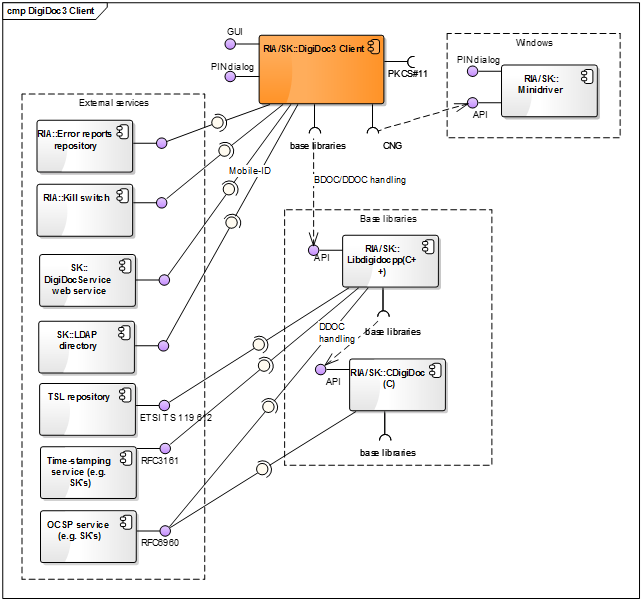
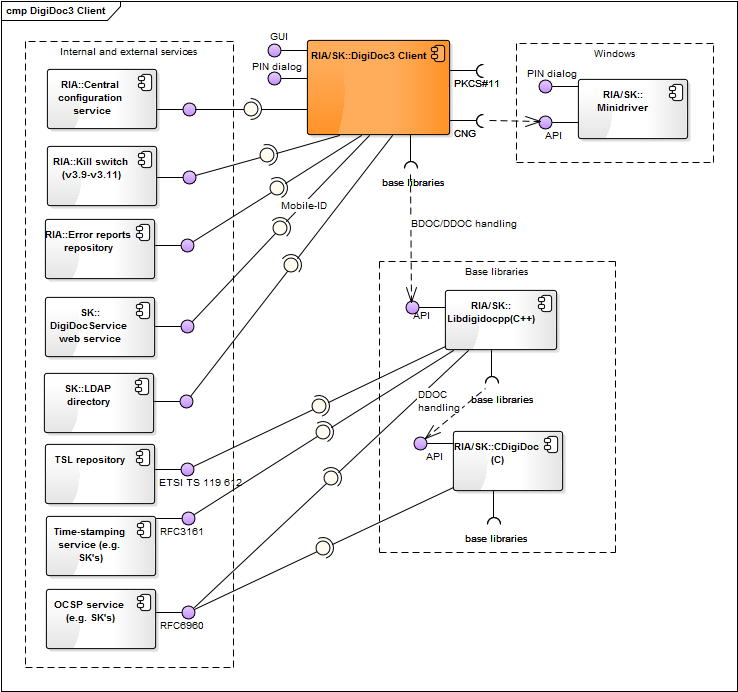
Update

diff --git a/index.html b/index.html
@@ -124,7 +124,7 @@
 <h1 id="architecture-of-id-software"><a name="home">ARCHITECTURE OF ID-SOFTWARE</a></h1>
 <p>Document version: 0.6<br />
 Software version: 3.12<br />
-Last updated: 09.02.2016</p>
+Last updated: 15.02.2016</p>
 <h1 id="introduction"><a name="_intro">Introduction</a></h1>
 <p>The purpose of this document is to describe the architecture of ID-software. </p>
 <p><strong>ID-software</strong> is a collection of software components offering support for PKI-based functionality, i.e. operations with different cryptographic tokens (e.g. eID cards), handling digitally signed documents, file encryption/decryption and signing and authentication in web environment. The ID-software comprises end-user applications, software libraries, web components, drivers for communicating with the cryptographic tokens and other complementary components.  </p>
@@ -995,6 +995,7 @@ Note that not all of the external base libraries are included in the component m
 </ul>
 </li>
 </ul>
+<p><a name="_ID-card_utility"></a></p>
 <h3 id="id-card-utility">ID-card utility</h3>
 <p><img alt="" src="./index_files/comp_utility.png" /><br />
 <strong>Figure: Components of ID-card utility</strong></p>
@@ -1316,7 +1317,7 @@ Note that not all of the external base libraries are included in the component m
 <ul>
 <li>CDigiDoc API: see chap. <a href="#_CDigiDoc_library’s_interfaces">CDigiDoc library’s interfaces</a></li>
 </ul>
-<h3 id="ndigidoc-librarys-interfaces"><a name="_Toc398635108"></a><a name="_Toc398633406"></a><a name="_Toc398590582"></a><a name="_NDigiDoc_library’s_interfaces"></a>NDigiDoc library’s interfaces</h3>
+<h3 id="ndigidoc-librarys-interfaces"><a name="_NDigiDoc_library’s_interfaces"></a>NDigiDoc library’s interfaces</h3>
 <p>Provided:</p>
 <ul>
 <li><a href="http://id.ee/public/NDigiDoc.pdf">NDigiDoc API</a><ul>
@@ -1757,7 +1758,7 @@ Note that not all of the external base libraries are included in the component m
 <p>The central configuration service's purpose is to enable on-line and central management of ID-software components configuration settings.</p>
 <p><img alt="" src="./index_files/comp_central_configuration_v02.png" /> </p>
 <p><strong>Figure: Central configuration service's client and server components</strong></p>
-<p><strong>Table: Software libraries and their components</strong></p>
+<p><strong>Table: Central configuration service's components</strong></p>
 <table>
 <thead>
 <tr>
@@ -1769,34 +1770,106 @@ Note that not all of the external base libraries are included in the component m
 <tbody>
 <tr>
 <td>ID-card Utility</td>
-<td>TODO</td>
+<td>ID-card Utility requests configuration data from the central configuration client component. Described in chap. <a href="#_ID-card_utility">ID-card Utility</a></td>
 <td>RIA/SK</td>
 </tr>
 <tr>
 <td>DigiDoc3 Client</td>
-<td>TODO</td>
+<td>DigiDoc3 Client requests configuration data from the central configuration client component. Described in chap. <a href="#_DigiDoc3_Client">DigiDoc3 Client</a></td>
 <td>RIA/SK</td>
 </tr>
 <tr>
-<td>Time-stamping service</td>
-<td>Described in chap. <a href="#_DigiDoc3_Client">DigiDoc3 Client</a></td>
-<td>-</td>
+<td>Central configuration client</td>
+<td>Central Configuration Client component manages the configuration file validation and updating processes, returns the validated configuration data to the Requesting Application (DigiDoc3 Client or Utility program) and if necessary, updates the data from Central Configuration Server</td>
+<td>RIA/SK</td>
 </tr>
 <tr>
-<td>OCSP service</td>
-<td>Described in chap. <a href="#_DigiDoc3_Client">DigiDoc3 Client</a></td>
-<td>-</td>
+<td>Central configuration service</td>
+<td>Central Configuration Server component provides configuration data on-line to the Central Configuration Client component</td>
+<td>RIA</td>
+</tr>
+<tr>
+<td>config.json</td>
+<td>The central configuration file is named config.json, the file is in JSON format. The configuration file is signed</td>
+<td>RIA/SK</td>
+</tr>
+<tr>
+<td>config.rsa</td>
+<td>Stores the central configuration file's signature value.</td>
+<td>RIA/SK</td>
+</tr>
+<tr>
+<td>config.pub</td>
+<td>Public key used for validating the central configuration file's signature value.</td>
+<td>RIA/SK</td>
+</tr>
+<tr>
+<td>QT-commons</td>
+<td>Contains common code of DigiDoc3 Client and ID-card Utility program.</td>
+<td>RIA/SK</td>
+</tr>
+<tr>
+<td>Libdigidocpp</td>
+<td>DigiDoc3 Client's base library, also uses the central configuration file's settings. Described in chap. <a href="#_comp_libraries">Software libraries</a></td>
+<td>RIA/SK</td>
 </tr>
 </tbody>
 </table>
-<p>/TODO/</p>
-<p><a name="_comp_central_conf_interfaces"></a></p>
-<h3 id="central-configuration-services-interfaces">Central configuration service's interfaces</h3>
+<p><a name="_comp_central_conf_client_interfaces"></a></p>
+<h3 id="central-configuration-client-components-interfaces">Central configuration client component's interfaces</h3>
+<p>Provided:</p>
+<ul>
+<li><a href="https://github.com/open-eid/qt-common/blob/master/Configuration.cpp">Central Configuration Client API (qt-common component)</a><ul>
+<li>User: DigiDoc3 Client, ID-card Utility</li>
+<li>Accessible with: C++</li>
+</ul>
+</li>
+</ul>
+<p>Required:</p>
+<ul>
+<li>Central configuration file config.json from the central configuration server</li>
+<li>Central configuration file config.json from the local file system (or the local installation package)</li>
+<li>Central configuration file's signature config.rsa from the central configuration server</li>
+<li>Central configuration file's signature config.rsa from the local file system (or the local installation package)</li>
+<li>Client operating system's registry/environment variables<ul>
+<li>LastCheck entry</li>
+</ul>
+</li>
+<li>Base libraries:<ul>
+<li>QT framework</li>
+<li>OpenSSL</li>
+</ul>
+</li>
+</ul>
+<p><a name="_comp_central_conf_server_interfaces"></a></p>
+<h3 id="central-configuration-server-components-interfaces">Central configuration server component's interfaces</h3>
+<p>Provided:</p>
+<ul>
+<li>Central configuration file config.json<ul>
+<li>Used by: central configuration client component</li>
+<li>Accessible from: <a href="https://id.eesti.ee/config.json">https://id.eesti.ee/config.json</a></li>
+</ul>
+</li>
+<li>Central configuration file's signature file config.rsa<ul>
+<li>Used by: central configuration client component</li>
+<li>Accessible from: <a href="https://id.eesti.ee/config.rsa">https://id.eesti.ee/config.rsa</a></li>
+</ul>
+</li>
+<li>Central configuration file's public key file config.pub<ul>
+<li>Used by: central configuration client component</li>
+<li>Accessible from: <a hreef="https://id.eesti.ee/config.pub">https://id.eesti.ee/config.pub</a> </li>
+</ul>
+</li>
+</ul>
 <p><a name="_comp_external"></a></p>
 <h2 id="interfaces-with-external-services">Interfaces with external services</h2>
+<p>The following chapter describes interfaces that different ID-software components may have with external services. Relatsionships with the external services are depicted in different ID-software component models above.</p>
+<h4 id="central-configuration-services-interface">Central configuration service's interface</h4>
+<ul>
+<li>Central configuration service is described in a separate chapter, see <a href="#_comp_central_conf">Central configuration service</a>. </li>
+</ul>
 <p><a name="_ID-updater_interface"></a></p>
-<h3 id="id-updater-interface">ID-updater interface</h3>
-<p>Interface’s properties:</p>
+<h4 id="id-updater-interface">ID-updater interface</h4>
 <ul>
 <li>User: DigiDoc3 Client</li>
 <li>Accessible with: HTTPS protocol</li>
@@ -1807,38 +1880,33 @@ Note that not all of the external base libraries are included in the component m
 </ul>
 </li>
 </ul>
-<h3 id="kill-switch-service-interface-v39-v311"><a name="_Kill_switch_service"></a>Kill switch service interface (v3.9-v3.11)</h3>
-<p>Interface’s properties:</p>
+<h4 id="kill-switch-service-interface-v39-v311"><a name="_Kill_switch_service"></a>Kill switch service interface (v3.9-v3.11)</h4>
 <ul>
 <li>User: DigiDoc3 Client</li>
 <li>Accessible with: XML file sent over HTTPS protocol</li>
 <li>Accessible from: <a href="https://installer.id.ee/media/killswitch/products.xml">https://installer.id.ee/media/killswitch/products.xml</a></li>
 </ul>
-<h3 id="digidocservice-web-service-interface"><a name="_DigiDocService_web_service"></a>DigiDocService web service interface</h3>
-<p>Interface’s properties:</p>
+<h4 id="digidocservice-web-service-interface"><a name="_DigiDocService_web_service"></a>DigiDocService web service interface</h4>
 <ul>
 <li>User: DigiDoc3 Client</li>
 <li>Accessible with: SOAP 1.0-encoded over HTTPS</li>
 <li>Accessible from: <a href="https://digidocservice.sk.ee/">https://digidocservice.sk.ee</a></li>
 <li>Documentation: <a href="http://www.sk.ee/upload/files/DigiDocService_spec_eng.pdf">http://www.sk.ee/upload/files/DigiDocService_spec_eng.pdf</a></li>
 </ul>
-<h3 id="error-reports-repository-interface"><a name="_Ref398569378"></a><a name="_Error_reports_repository"></a>Error reports repository interface</h3>
-<p>Interface’s properties:</p>
+<h4 id="error-reports-repository-interface"><a name="_Error_reports_repository"></a>Error reports repository interface</h4>
 <ul>
 <li>User: DigiDoc3 Client, ID-utility</li>
 <li>Accessible with: HTTPS protocol</li>
 <li>Accessible from: <a href="https://cr.eesti.ee/">https://cr.eesti.ee</a></li>
 </ul>
-<h3 id="ldap-directory-interface"><a name="_LDAP_directory_interface"></a>LDAP directory interface</h3>
-<p>Interface’s properties:</p>
+<h4 id="ldap-directory-interface"><a name="_LDAP_directory_interface"></a>LDAP directory interface</h4>
 <ul>
 <li>User: DigiDoc3 Client</li>
 <li>Accessible with: LDAP protocol</li>
 <li>Accessible from: ldap.sk.ee:389</li>
 <li>Documentation: <a href="https://sk.ee/en/repository/ldap/ldap-kataloogi-kasutamine/">https://sk.ee/en/repository/ldap/ldap-kataloogi-kasutamine/</a></li>
 </ul>
-<h3 id="tsl-repositories-interfaces"><a name="_TSL_repositories’_interfaces"></a>TSL repositories’ interfaces</h3>
-<p>Interface’s properties:</p>
+<h4 id="tsl-repositories-interfaces"><a name="_TSL_repositories’_interfaces"></a>TSL repositories’ interfaces</h4>
 <ul>
 <li>User: Libdigidocpp, DigiDoc4j</li>
 <li>Accessible with: HTTPS protocol</li>
@@ -1853,8 +1921,7 @@ Note that not all of the external base libraries are included in the component m
 <p>Documentation: <a href="http://www.etsi.org/deliver/etsi_ts/119600_119699/119612/01.02.01_60/ts_119612v010201p.pdf">http://www.etsi.org/deliver/etsi_ts/119600_119699/119612/01.02.01_60/ts_119612v010201p.pdf</a></p>
 </li>
 </ul>
-<h3 id="time-stamping-service-interface"><a name="_Time-stamping_service_interface"></a>Time-stamping service interface</h3>
-<p>Interface’s properties:</p>
+<h4 id="time-stamping-service-interface"><a name="_Time-stamping_service_interface"></a>Time-stamping service interface</h4>
 <ul>
 <li>User: Libdigidocpp , DigiDoc4j</li>
 <li>Accessible with: HTTPS protocol</li>
@@ -1864,8 +1931,7 @@ Note that not all of the external base libraries are included in the component m
 </ul>
 </li>
 </ul>
-<h3 id="ocsp-service-interface"><a name="_OCSP_service_interface"></a>OCSP service interface</h3>
-<p>Interface’s properties:</p>
+<h4 id="ocsp-service-interface"><a name="_OCSP_service_interface"></a>OCSP service interface</h4>
 <ul>
 <li>User: DigiDoc4j, JDigiDoc, Libdigidocpp, CDigiDoc software libraries; DigiDocService web service</li>
 <li>Accessible with: HTTPS protocol</li>
@@ -1881,33 +1947,29 @@ Note that not all of the external base libraries are included in the component m
 <p>Documentation: <a href="https://tools.ietf.org/html/rfc6960">RFC6960</a></p>
 </li>
 </ul>
-<h3 id="id-card-owners-photo-repository-interface"><a name="_ID-card_owners’_photo"></a>ID-card owners’ photo repository interface</h3>
-<p>Interface’s properties:</p>
+<h4 id="id-card-owners-photo-repository-interface"><a name="_ID-card_owners’_photo"></a>ID-card owners’ photo repository interface</h4>
 <ul>
 <li>User: ID-card utility program</li>
 <li>Accessible with: HTTPS protocol</li>
 <li>Accessible from: <a href="https://sisene.www.eesti.ee/idportaal/portaal.idpilt">https://sisene.www.eesti.ee/idportaal/portaal.idpilt</a></li>
 </ul>
-<h3 id="certificates-renewal-service-interface-since-v312"><a name="_Certificate_renewal_service"></a>Certificate's renewal service interface (since v3.12)</h3>
-<p>Interface’s properties:</p>
-<ul>
-<li>User: ID-card utility program</li>
-<li>Accessible with: HTTP</li>
-<li>Accessible from: to be specified. </li>
-</ul>
-<h3 id="eestiee-e-mail-checking-service-interface"><a name="_Eesti.ee_e-mail_checking"></a>Eesti.ee e-mail checking service interface</h3>
-<p>Interface’s properties:</p>
+<h4 id="eestiee-e-mail-checking-service-interface"><a name="_Eesti.ee_e-mail_checking"></a>Eesti.ee e-mail checking service interface</h4>
 <ul>
 <li>User: ID-card utility program</li>
 <li>Accessible with: HTTPS</li>
 <li>Accessible from: <a href="https://sisene.www.eesti.ee/idportaal/postisysteem.naita_suunamised">https://sisene.www.eesti.ee/idportaal/postisysteem.naita_suunamised</a></li>
 </ul>
-<h3 id="mobile-id-validity-checking-service-interface"><a name="_Mobile-ID_validity_checking"></a>Mobile-ID validity checking service interface</h3>
-<p>Interface’s properties:</p>
+<h4 id="mobile-id-validity-checking-service-interface"><a name="_Mobile-ID_validity_checking"></a>Mobile-ID validity checking service interface</h4>
 <ul>
 <li>User: ID-card utility program</li>
 <li>Accessible with: HTTPS</li>
 <li>Accessible from: <a href="https://id.sk.ee/MIDInfoWS/">https://id.sk.ee/MIDInfoWS/</a></li>
+</ul>
+<h4 id="certificates-renewal-service-interface-since-v312x"><a name="_Certificate_renewal_service"></a>Certificate's renewal service interface (since v3.12.x)</h4>
+<ul>
+<li>User: ID-card utility program</li>
+<li>Accessible with: HTTP</li>
+<li>Accessible from: to be specified. </li>
 </ul>
 <p><a name="_deployment_model"></a></p>
 <h1 id="deployment-model"><a name="_tmp2">Deployment model</a></h1>
